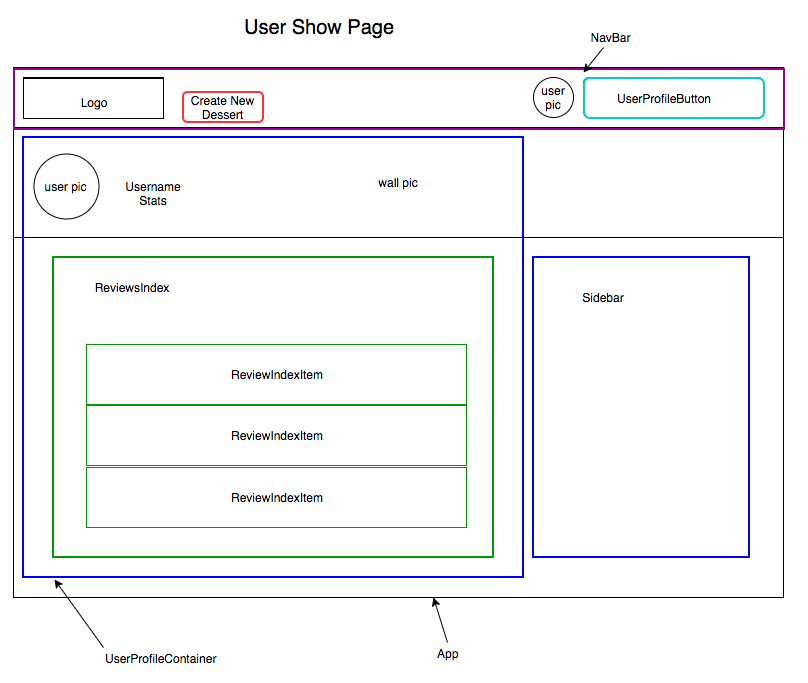
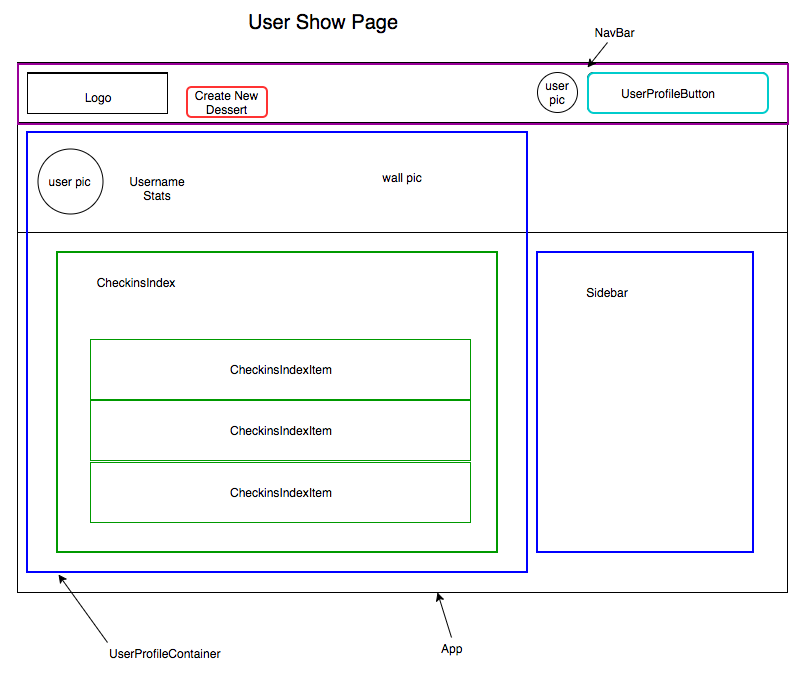
Replace review with checkin

diff --git a/docs/schema.md b/docs/schema.md
@@ -11,13 +11,13 @@
 | session_token   | string    | not null, indexed, unique |
 
 
-## reviews
+## checkin
 
 | Column Name | Data Type | Details                                              |
 | ------------|-----------| -----------------------------------------------------|
 | id          | integer   | not null, primary key                                |
-| body        | string    | not null                                             |
-| reviewer_id | integer   | not null, foreign key (references users), indexed    |
+| comment     | string    | not null                                             |
+| user_id     | integer   | not null, foreign key (references users), indexed    |
 | dessert_id  | integer   | not null, foreign key (references desserts), indexed |                  
 | image_url   | string    |                                                      |
 | rating      | integer   |                                                      |
@@ -29,7 +29,7 @@
 | ------------|-----------| -----------------------------------------------------|
 | id          | integer   | not null, primary key                                |
 | description | string    | not null                                             |
-| review_id   | integer   | not null, foreign key (references reviews), indexed  |                  
+| checkin_id  | integer   | not null, foreign key (references checkins), indexed |                  
 | image_url   | string    |                                                      |
 | name        | string    | not null, unique                                     |
 | category    | string    |

diff --git a/docs/sample-state.md b/docs/sample-state.md
@@ -1,37 +1,37 @@
 ```
 {
-    reviews : {
+    checkins : {
         byId : {
             1 : {
                 id : 1,
-                author_id : 1,
+                user_id : 1,
                 dessert_id : 1,
-                body : "......",
+                comment : "......",
                 rating: 3,
             },
             2 : {
                 id : 2
-                author_id : 1,
+                user_id : 1,
                 dessert : 2,
-                body : "......",
+                comment : "......",
                 rating: 4,    
             }
         }
-        allIds : [1, 2] //used to filter selected reviews
+        allIds : [1, 2] //used to filter selected checkins
     },
     desserts : {
         byId : {
             1 : {
                 id : 1,
                 description : ".....",
-                review_id : 1,
+                checkin_id : 1,
                 name : "...",
                 category : "..."
             },
             2 : {
                 id : 2  ,
                 description : ".....",
-                review_id : 2,
+                checkin_id : 2,
                 name : "...",
                 category : "..."
             }            

diff --git a/docs/README.md b/docs/README.md
@@ -1,7 +1,5 @@
 # DESSRT
 
-
-
 [Heroku link:](https://github.com/ewawrzas/Full-Stack-Proposal/tree/master/docs)
 [Trello link:](https://github.com/ewawrzas/Full-Stack-Proposal/tree/master/docs)
 
@@ -15,7 +13,7 @@ Based on Untappd, DESSRT is a web application built using Ruby on Rails and Reac
 + User login, guest/demo login
 + View other user accounts
 + Create new dessert
-+ Create, edit, delete and view Reviews
++ Create, edit, delete and view Checkins
 
 
 ## Design Docs
@@ -34,8 +32,8 @@ Based on Untappd, DESSRT is a web application built using Ruby on Rails and Reac
 #### Aim: User profiles can be read, updated, and destroyed through the API
 ### Phase 3: Desserts model, API, and components (2 days)
 #### Aim: Desserts can be added and viewed through the API
-### Phase 4: Reviews model, API, and components (2 days)
-#### Aim: Reviews belong to desserts and users, and can be created, updated, and destroyed.
+### Phase 4: Checkin Model, API, and components (2 days)
+#### Aim: Checkins belong to desserts and users, and can be created, updated, and destroyed.
 ### Phase 5:
 #### Aim:
 

diff --git a/docs/component-hierarchy.md b/docs/component-hierarchy.md
@@ -8,17 +8,17 @@
 ### HomeContainer
   + Navbar `connect`s to `dessert` and `user`
   + Sidebar `connect`s to `user`
-  + ReviewsIndex `connect`s to `review`
+  + CheckinsIndex `connect`s to `checkin`
 
 ### UserProfileContainer
  + Navbar `connect`s to `new` and `user`
- + ReviewsIndex `connect`s to `review`
+ + CheckinsIndex `connect`s to `checkins`
 
 ### DessertDetailContainer
  + Navbar `connect`s to `new` and `user`
- + ReviewsIndex `connect`s to `review`
+ + CheckinsIndex `connect`s to `checkins`
  + CheckInForm
- + CheckInButton `connect`s to `review` and `user`
+ + CheckInButton `connect`s to `checkins` and `user`
 
 ### NewDessertContainer
   + NewDessertButton `connect`s to `dessert`

diff --git a/docs/api-endpoints.md b/docs/api-endpoints.md
@@ -10,6 +10,7 @@
 + `POST` /api/users
 + `PATCH` /api/users
 + `DELETE` /api/users/:id
++ `GET` /api/user/:id
 
 ### Session
 + `POST` /api/session
@@ -19,8 +20,8 @@
 + `POST` /api/dessert
 + `GET` /api/dessert/:id
 
-### Reviews
-+ `POST` /api/reviews
-+ `PATCH` /api/reviews/:id
-+ `DELETE` /api/reviews/:id
-+ `GET` /api/reviews
+### Checkin
++ `POST` /api/checkin/add
++ `PATCH` /api/checkins/:id
++ `DELETE` /api/checkins/:id
++ `GET` /api/checkin
